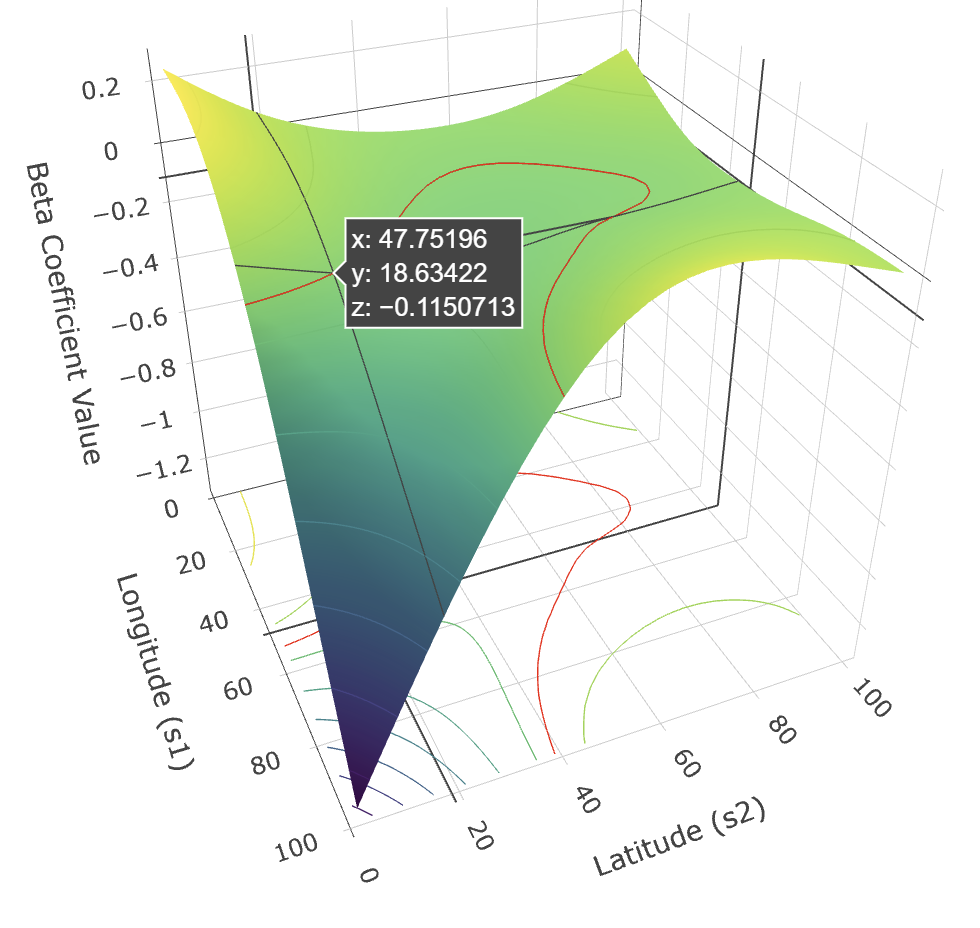
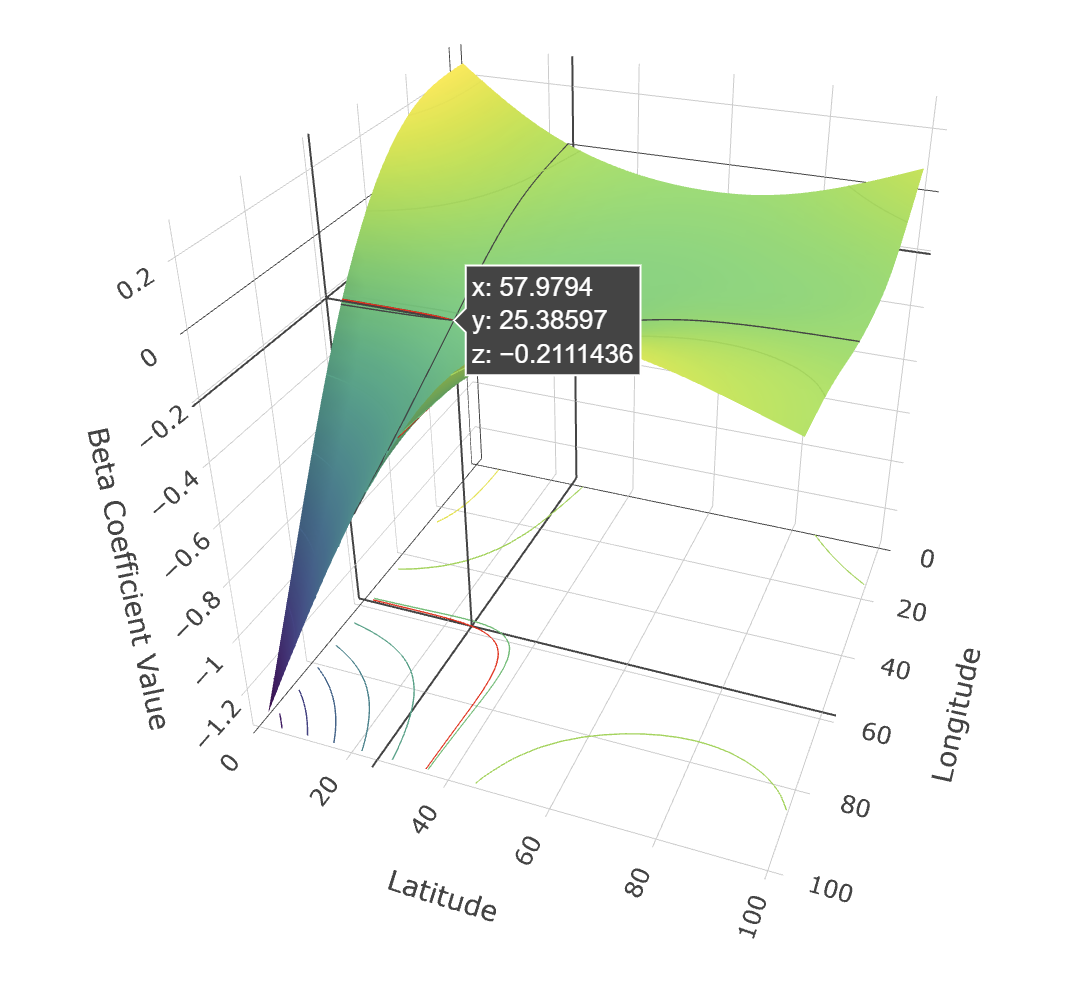
commit

diff --git a/README.md b/README.md
@@ -185,8 +185,8 @@ p_3d_interactive <- plot_ly(
   layout(
     title = list(text = "3D Spatially Varying Coefficient Surface β(s)"),
     scene = list(
-      xaxis = list(title = "Longitude (s1)"),
-      yaxis = list(title = "Latitude (s2)"),
+      xaxis = list(title = "Longitude"),
+      yaxis = list(title = "Latitude"),
       zaxis = list(title = "Beta Coefficient Value")
     )
   )
@@ -209,10 +209,10 @@ persp(
   col = terrain.colors(100)[facetcol],
   shade = 0.4,
   ticktype = "detailed",
-  xlab = "Longitude (s1)",
-  ylab = "Latitude (s2)",
+  xlab = "Longitude",
+  ylab = "Latitude",
   zlab = "Beta Coefficient",
-  main = "3D Functional Coefficient Surface β(s1, s2)"
+  main = "3D Functional Coefficient Surface β"
 )
 ```
 
